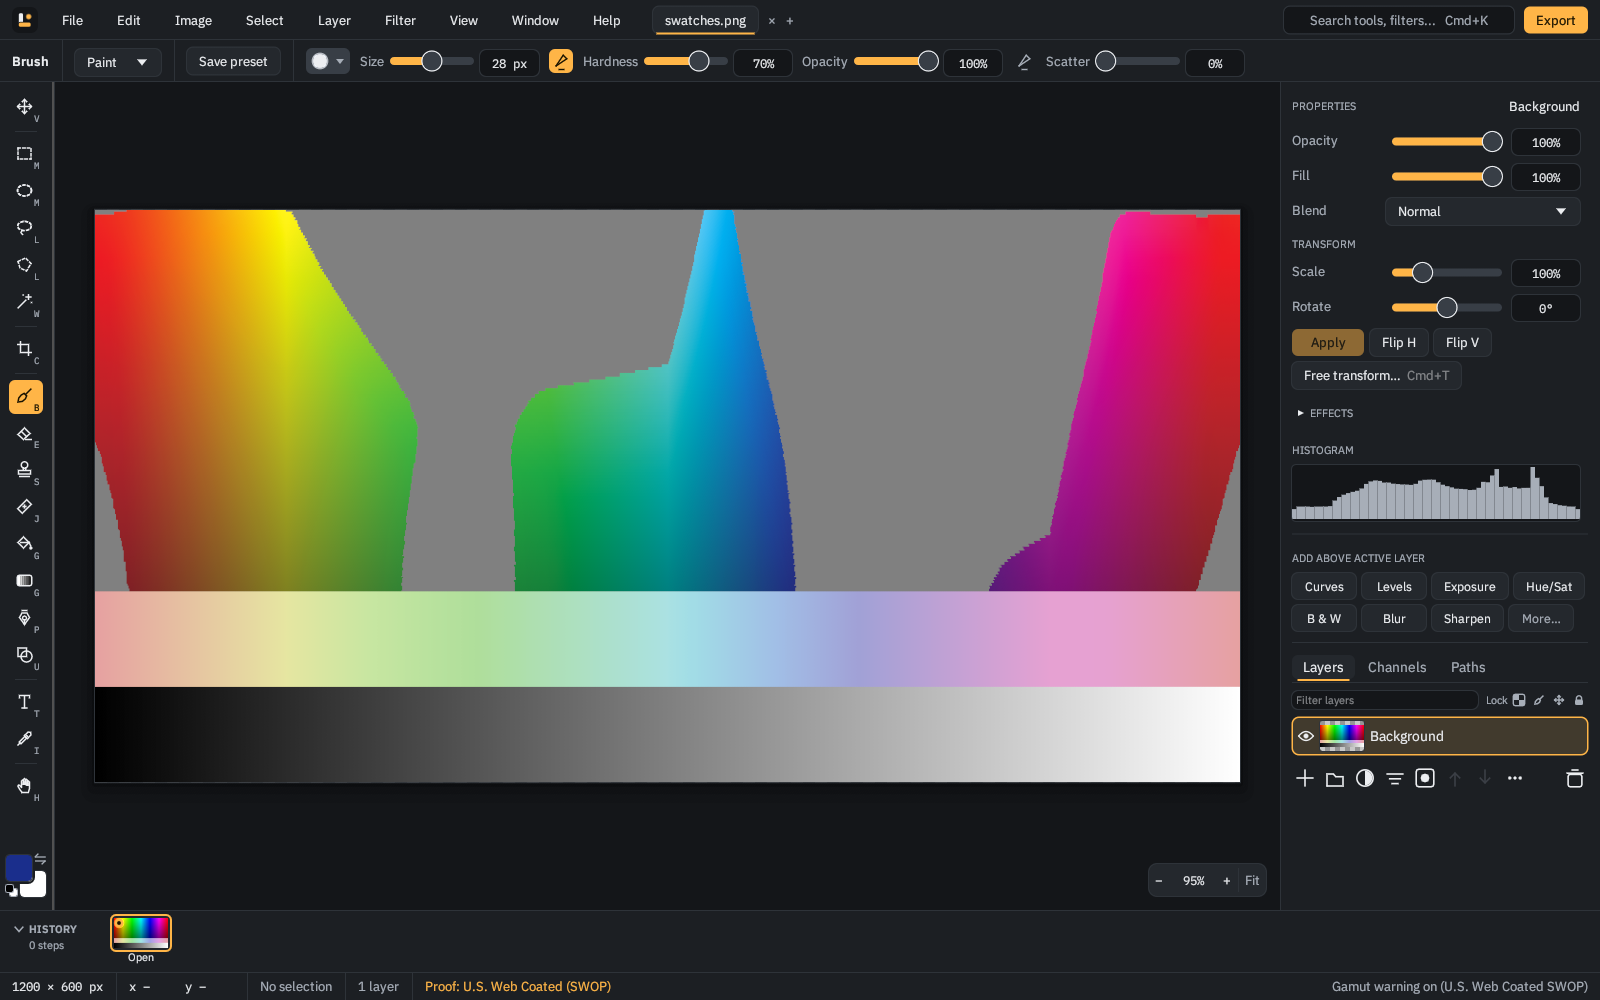
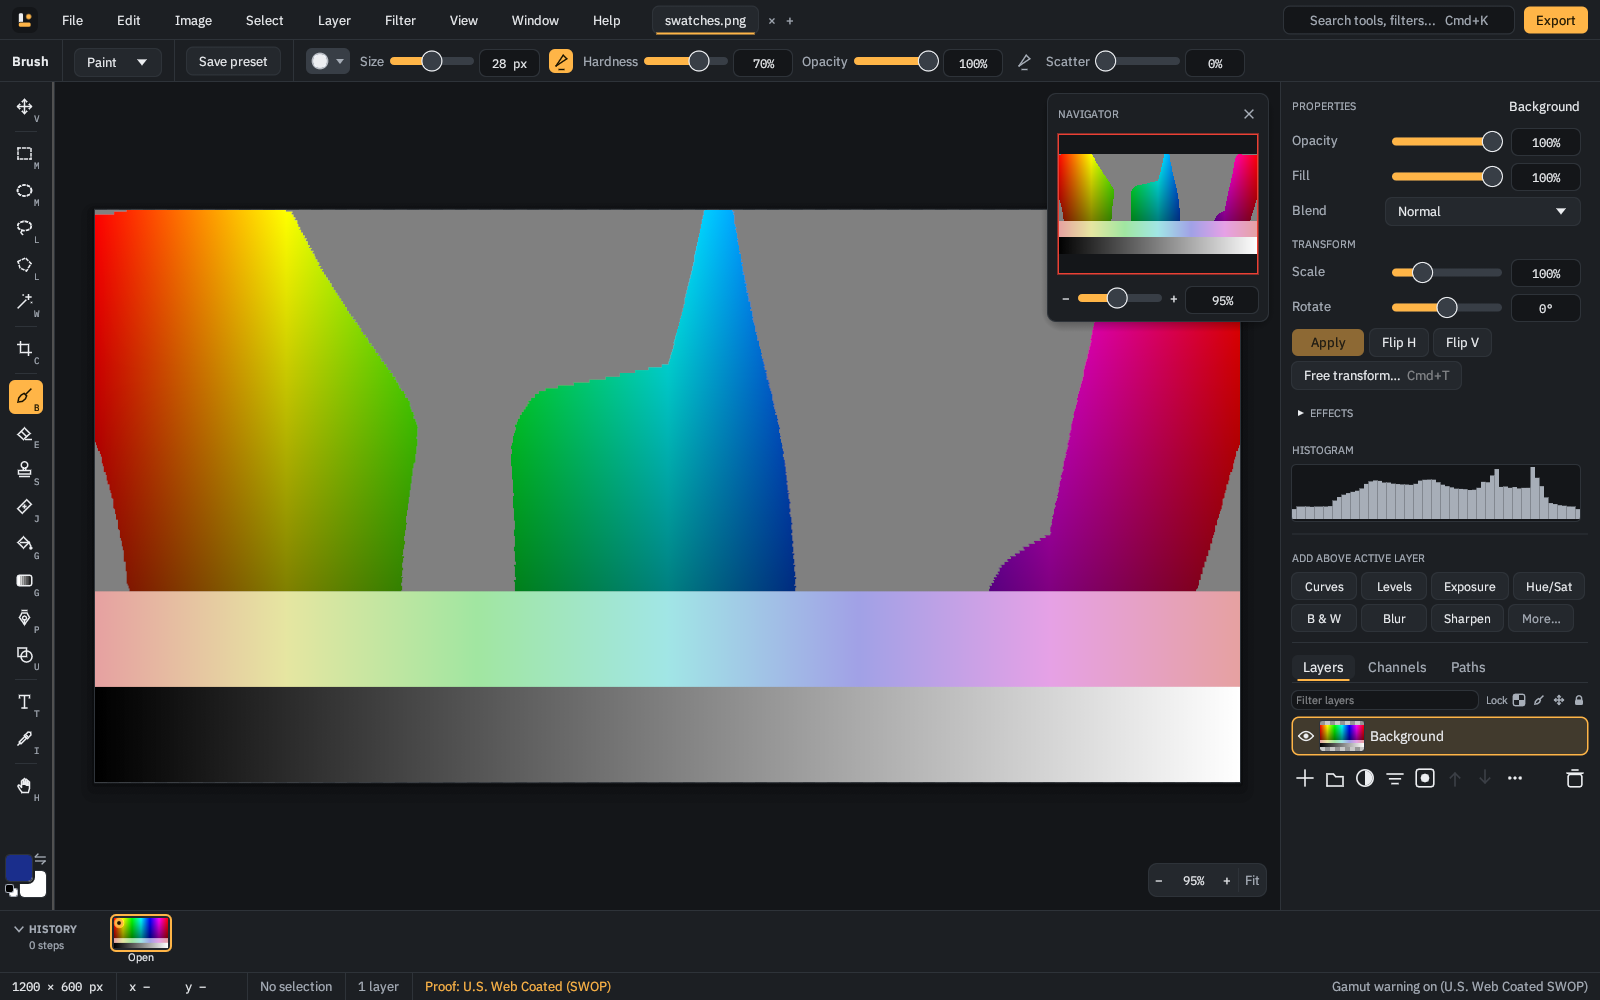
Proof colors: proof the Navigator; Gamut Warning alone keeps printable colours
The Navigator thumbnail goes through the same lookup as the canvas.
ProofLut::apply takes separate colors / warn flags, so View ▸ Gamut
Warning without Proof Colors greys out-of-gamut colours and leaves the
rest exactly as they are, as in Photoshop.

diff --git a/crates/app/src/soft_proof.rs b/crates/app/src/soft_proof.rs
@@ -16,12 +16,16 @@ pub(crate) const GAMUT_WARNING: &str = "gamut-warning";
 /// What the status bar says while proofing.
 pub(crate) const PROOF_NOTE: &str = "Proof: U.S. Web Coated (SWOP)";
 
+/// How the view shows colours: the lookup, whether colours are proofed,
+/// and whether out-of-gamut colours show as warning grey.
+pub(crate) type ProofView = (&'static ProofLut, bool, bool);
+
 impl App {
-    /// The lookup the canvas texture goes through, and whether
-    /// out-of-gamut colours show as warning grey; `None` when the canvas
+    /// The proof the canvas texture goes through; `None` when the canvas
     /// shows the document's own colours.
-    pub(crate) fn proof_view(&self) -> Option<(&'static ProofLut, bool)> {
-        (self.proof_colors || self.gamut_warning).then(|| (ProofLut::swop(), self.gamut_warning))
+    pub(crate) fn proof_view(&self) -> Option<ProofView> {
+        (self.proof_colors || self.gamut_warning)
+            .then(|| (ProofLut::swop(), self.proof_colors, self.gamut_warning))
     }
 
     /// Run a proof toggle; false for any other id.
@@ -34,16 +38,28 @@ impl App {
         *flag = !*flag;
         let on = *flag;
         self.status = format!("{name} {}", if on { "on (U.S. Web Coated SWOP)" } else { "off" });
-        // The whole texture changes; the document does not.
+        // The whole texture changes (and the Navigator's); the document
+        // does not.
         self.mark(None);
+        self.panels.nav_stale = true;
         true
     }
 }
 
+/// One display colour through the proof (the Navigator's thumbnail).
+pub(crate) fn proof_color32(c: Color32, proof: Option<ProofView>) -> Color32 {
+    let Some((lut, colors, warn)) = proof else {
+        return c;
+    };
+    let [r, g, b, a] = c.to_srgba_unmultiplied();
+    let [r, g, b] = lut.apply([r, g, b], colors, warn);
+    Color32::from_rgba_unmultiplied(r, g, b, a)
+}
+
 /// [`raster_to_image`] through the proof, when there is one: the
 /// straight 8-bit sRGB of each pixel is proofed, alpha kept.
-pub(crate) fn display_image(flat: &Raster, proof: Option<(&ProofLut, bool)>) -> egui::ColorImage {
-    let Some((lut, warn)) = proof else {
+pub(crate) fn display_image(flat: &Raster, proof: Option<ProofView>) -> egui::ColorImage {
+    let Some((lut, colors, warn)) = proof else {
         return crate::canvas::raster_to_image(flat);
     };
     let enc = crate::canvas::srgb_lut();
@@ -55,7 +71,7 @@ pub(crate) fn display_image(flat: &Raster, proof: Option<(&ProofLut, bool)>) -> 
             .iter()
             .map(|p| {
                 let [r, g, b, a] = p.to_straight();
-                let [r, g, b] = lut.apply([enc(r), enc(g), enc(b)], warn);
+                let [r, g, b] = lut.apply([enc(r), enc(g), enc(b)], colors, warn);
                 Color32::from_rgba_unmultiplied(r, g, b, (a.clamp(0.0, 1.0) * 255.0 + 0.5) as u8)
             })
             .collect(),
@@ -82,7 +98,7 @@ mod tests {
         let plain = display_image(&flat, None);
         assert_eq!(plain.pixels[0], Color32::from_rgb(0, 0, 255));
         let lut = ProofLut::swop();
-        let proofed = display_image(&flat, Some((lut, false)));
+        let proofed = display_image(&flat, Some((lut, true, false)));
         let [r, g, b, a] = proofed.pixels[0].to_array();
         assert!(
             (r as i32 - 35).abs() <= 1 && (g as i32 - 75).abs() <= 1,
@@ -90,9 +106,19 @@ mod tests {
         );
         assert!((b as i32 - 165).abs() <= 1 && a == 255, "{r} {g} {b} {a}");
         assert_eq!(proofed.pixels[1], Color32::from_rgb(128, 128, 128));
-        let warned = display_image(&flat, Some((lut, true)));
+        let warned = display_image(&flat, Some((lut, true, true)));
         assert_eq!(warned.pixels[0], Color32::from_rgb(128, 128, 128));
         assert_eq!(warned.pixels[2], proofed.pixels[2]);
+        // Gamut warning alone greys blue and leaves the rest untouched.
+        let only = display_image(&flat, Some((lut, false, true)));
+        assert_eq!(only.pixels[0], Color32::from_rgb(128, 128, 128));
+        assert_eq!(only.pixels[1..], plain.pixels[1..]);
+        // The Navigator's single-colour path agrees with the canvas.
+        assert_eq!(
+            proof_color32(plain.pixels[0], Some((lut, true, false))),
+            proofed.pixels[0]
+        );
+        assert_eq!(proof_color32(plain.pixels[0], None), plain.pixels[0]);
     }
 
     #[test]
@@ -109,9 +135,9 @@ mod tests {
         assert!(app.proof_view().is_none());
         app.run_menu_action(PROOF_COLORS);
         assert!(app.proof_colors && app.dirty);
-        assert!(app.proof_view().is_some_and(|(_, warn)| !warn));
+        assert!(app.proof_view().is_some_and(|(_, colors, warn)| colors && !warn));
         app.run_menu_action(GAMUT_WARNING);
-        assert!(app.proof_view().is_some_and(|(_, warn)| warn));
+        assert!(app.proof_view().is_some_and(|(_, colors, warn)| colors && warn));
         app.run_menu_action(PROOF_COLORS);
         app.run_menu_action(GAMUT_WARNING);
         assert!(app.proof_view().is_none());

diff --git a/crates/io/src/proof.rs b/crates/io/src/proof.rs
@@ -324,13 +324,19 @@ impl ProofLut {
         std::array::from_fn(|c| w[0] * p0[c] + w[1] * p1[c] + w[2] * p2[c] + w[3] * p3[c])
     }
 
-    /// Proof an 8-bit gamma-encoded colour. With `warn`, colours further
-    /// than [`GAMUT_DE`] from their print show as Photoshop's gamut
-    /// warning grey instead.
-    pub fn apply(&self, rgb: [u8; 3], warn: bool) -> [u8; 3] {
+    /// An 8-bit gamma-encoded colour as the view shows it: proofed with
+    /// `colors` (else as it is), and with `warn` Photoshop's gamut warning
+    /// grey when it lies further than [`GAMUT_DE`] from its print.
+    pub fn apply(&self, rgb: [u8; 3], colors: bool, warn: bool) -> [u8; 3] {
+        if !colors && !warn {
+            return rgb;
+        }
         let s = self.sample(rgb.map(|v| v as f32 / 255.0));
         if warn && s[3] > GAMUT_DE {
             return [128, 128, 128];
+        }
+        if !colors {
+            return rgb;
         }
         [s[0], s[1], s[2]].map(|v| (v.clamp(0.0, 1.0) * 255.0 + 0.5) as u8)
     }
@@ -460,18 +466,22 @@ mod tests {
         }
         assert!(sum / (n as f64) < 0.3, "mean {}", sum / n as f64);
         // 8-bit apply: greys and the skin tone pass through.
-        assert_eq!(lut.apply([128, 128, 128], false), [128, 128, 128]);
-        assert_eq!(lut.apply([255, 255, 255], true), [255, 255, 255]);
-        let skin = lut.apply([224, 172, 140], true);
+        assert_eq!(lut.apply([128, 128, 128], true, false), [128, 128, 128]);
+        assert_eq!(lut.apply([255, 255, 255], true, true), [255, 255, 255]);
+        let skin = lut.apply([224, 172, 140], true, true);
         assert!(
             skin.iter()
                 .zip([224, 172, 140])
                 .all(|(a, b)| (*a as i32 - b).abs() <= 2),
             "{skin:?}"
         );
-        // Gamut warning greys pure blue.
-        assert_eq!(lut.apply([0, 0, 255], true), [128, 128, 128]);
-        let blue = lut.apply([0, 0, 255], false);
+        // Gamut warning greys pure blue, with or without the proof; alone
+        // it leaves printable colours exactly as they are.
+        assert_eq!(lut.apply([0, 0, 255], true, true), [128, 128, 128]);
+        assert_eq!(lut.apply([0, 0, 255], false, true), [128, 128, 128]);
+        assert_eq!(lut.apply([224, 172, 140], false, true), [224, 172, 140]);
+        assert_eq!(lut.apply([0, 0, 255], false, false), [0, 0, 255]);
+        let blue = lut.apply([0, 0, 255], true, false);
         assert!(
             (blue[0] as i32 - 35).abs() <= 1 && (blue[2] as i32 - 165).abs() <= 1,
             "{blue:?}"

diff --git a/crates/app/src/navigator.rs b/crates/app/src/navigator.rs
@@ -62,11 +62,13 @@ impl App {
             return;
         }
         let size = nav_size(doc.width, doc.height);
+        let proof = self.proof_view();
         let img = thumb_with(doc.canvas(), size, |x, y| {
-            to_color32(flat.get(
+            let c = to_color32(flat.get(
                 x.clamp(0, flat.width as i32 - 1) as u32,
                 y.clamp(0, flat.height as i32 - 1) as u32,
-            ))
+            ));
+            crate::soft_proof::proof_color32(c, proof)
         });
         upload(
             &mut self.panels.nav_tex,
